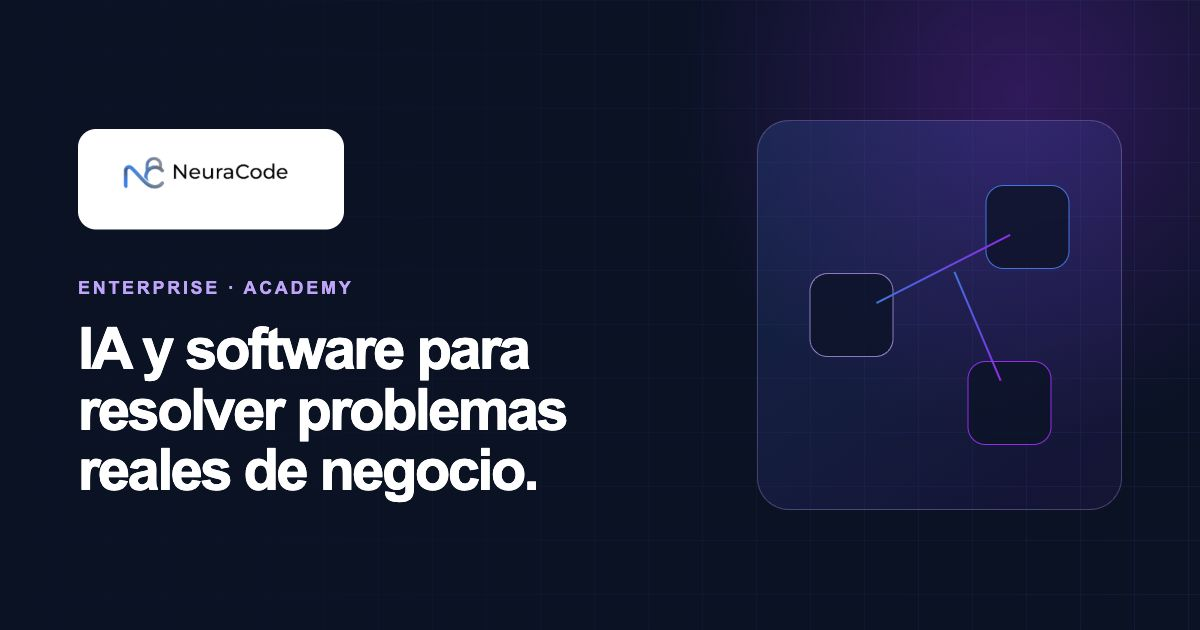
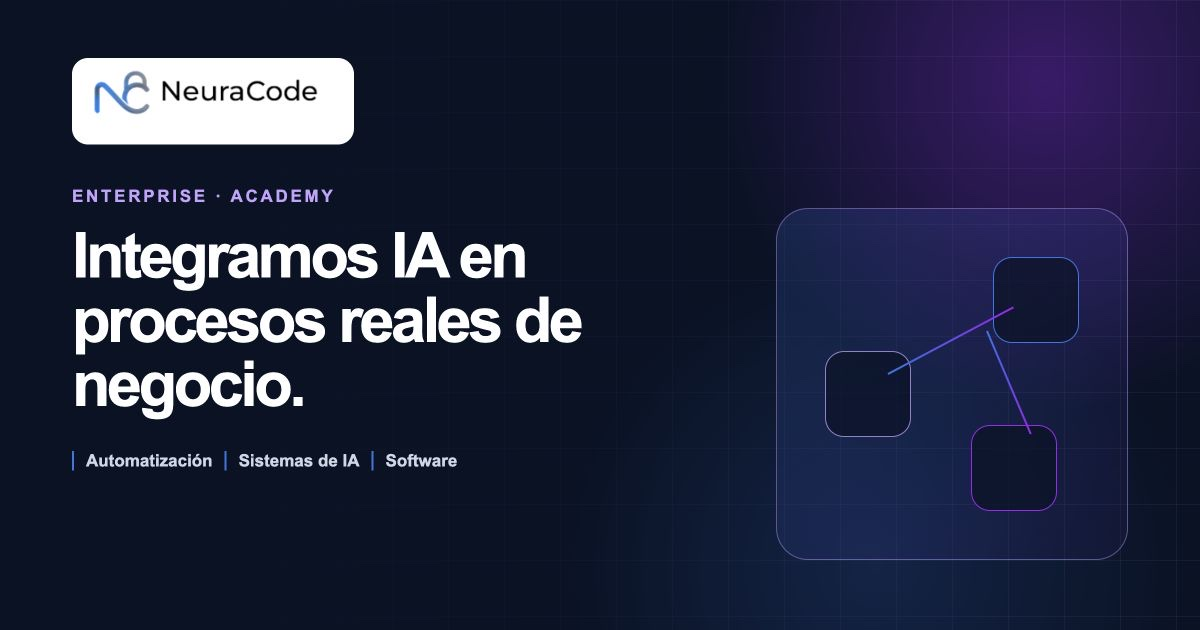
feat: improve social sharing card

diff --git a/public/og-card.html b/public/og-card.html
@@ -1,1 +1,1 @@
-<!doctype html><html lang="es"><head><meta charset="UTF-8"><meta name="robots" content="noindex"><title>Neuracode social card</title><style>*{box-sizing:border-box}html,body{margin:0;width:1200px;height:630px;overflow:hidden;font-family:Inter,Arial,sans-serif;background:#081225;color:#fff}.card{position:relative;width:1200px;height:630px;padding:72px 78px;display:grid;grid-template-columns:1.25fr .75fr;gap:70px;align-items:center;background:radial-gradient(circle at 85% 15%,rgba(160,32,240,.28),transparent 30%),#081225}.card:after{content:"";position:absolute;inset:0;background-image:linear-gradient(rgba(46,118,229,.09) 1px,transparent 1px),linear-gradient(90deg,rgba(46,118,229,.09) 1px,transparent 1px);background-size:54px 54px;mask-image:linear-gradient(90deg,transparent,#000)}.copy,.visual{position:relative;z-index:1}.logo-plate{display:inline-flex;background:#fff;border-radius:18px;padding:10px 18px;margin-bottom:48px}.logo-plate img{display:block;width:230px;height:auto}.eyebrow{color:#c5a3ff;font-size:18px;font-weight:800;letter-spacing:.15em;text-transform:uppercase;margin-bottom:20px}h1{font-size:58px;line-height:1.05;letter-spacing:-.045em;margin:0;max-width:720px}.visual{height:390px;border:1px solid rgba(197,163,255,.28);border-radius:32px;background:linear-gradient(145deg,rgba(46,118,229,.2),rgba(160,32,240,.08));display:grid;place-items:center}.nodes{width:260px;height:260px;position:relative}.node{position:absolute;width:84px;height:84px;border:1px solid rgba(197,163,255,.7);background:rgba(8,18,37,.75);border-radius:18px}.n1{left:0;top:88px}.n2{right:0;top:0;border-color:#2e76e5}.n3{right:18px;bottom:0;border-color:#a020f0}.line{position:absolute;height:2px;background:linear-gradient(90deg,#2e76e5,#a020f0);transform-origin:left}.l1{width:150px;left:67px;top:117px;transform:rotate(-27deg)}.l2{width:118px;left:145px;top:86px;transform:rotate(67deg)}</style></head><body><main class="card"><section class="copy"><div class="logo-plate"><img src="/logo-neuracode-horizontal.png" alt="Neuracode"></div><div class="eyebrow">Enterprise · Academy</div><h1>Integramos IA en procesos reales de negocio.</h1></section><section class="visual" aria-hidden="true"><div class="nodes"><div class="node n1"></div><div class="node n2"></div><div class="node n3"></div><div class="line l1"></div><div class="line l2"></div></div></section></main></body></html>
+<!doctype html><html lang="es"><head><meta charset="UTF-8"><meta name="robots" content="noindex"><title>Neuracode social card</title><style>*{box-sizing:border-box}html,body{margin:0;width:1200px;height:630px;overflow:hidden;font-family:Inter,Arial,sans-serif;background:#081225;color:#fff}.card{position:relative;width:1200px;height:630px;padding:58px 72px;overflow:hidden;background:radial-gradient(circle at 87% 13%,rgba(160,32,240,.34),transparent 28%),radial-gradient(circle at 73% 90%,rgba(46,118,229,.18),transparent 30%),#081225}.card:before{content:"";position:absolute;inset:0;background-image:linear-gradient(rgba(197,163,255,.07) 1px,transparent 1px),linear-gradient(90deg,rgba(197,163,255,.07) 1px,transparent 1px);background-size:56px 56px;mask-image:linear-gradient(90deg,transparent 20%,#000)}.copy{position:relative;z-index:1;width:660px}.logo-plate{display:inline-flex;background:#fff;border-radius:16px;padding:12px 16px;margin-bottom:42px}.logo-plate img{display:block;width:250px;height:auto}.eyebrow{color:#c5a3ff;font-size:17px;font-weight:800;letter-spacing:.16em;text-transform:uppercase;margin-bottom:18px}h1{font-size:63px;line-height:1.02;letter-spacing:-.055em;margin:0;max-width:680px}.proof{display:flex;gap:12px;margin-top:34px;color:#ced8e8;font-size:17px;font-weight:700}.proof span{padding-left:12px;border-left:2px solid #2e76e5}.system{position:absolute;right:72px;bottom:70px;width:352px;height:352px;border:1px solid rgba(197,163,255,.42);border-radius:32px;background:linear-gradient(145deg,rgba(46,118,229,.18),rgba(160,32,240,.05));z-index:1}.node{position:absolute;width:86px;height:86px;border:1px solid rgba(197,163,255,.75);border-radius:19px;background:rgba(8,18,37,.7)}.n1{left:48px;top:142px}.n2{right:48px;top:48px;border-color:#2e76e5}.n3{right:70px;bottom:48px;border-color:#a020f0}.line{position:absolute;height:2px;background:linear-gradient(90deg,#2e76e5,#a020f0);transform-origin:left}.l1{width:142px;left:111px;top:164px;transform:rotate(-28deg)}.l2{width:112px;left:210px;top:121px;transform:rotate(67deg)}</style></head><body><main class="card"><section class="copy"><div class="logo-plate"><img src="/logo-neuracode-horizontal.png" alt="Neuracode"></div><div class="eyebrow">Enterprise · Academy</div><h1>Integramos IA en procesos reales de negocio.</h1><div class="proof"><span>Automatización</span><span>Sistemas de IA</span><span>Software</span></div></section><section class="system" aria-hidden="true"><div class="node n1"></div><div class="node n2"></div><div class="node n3"></div><div class="line l1"></div><div class="line l2"></div></section></main></body></html>
